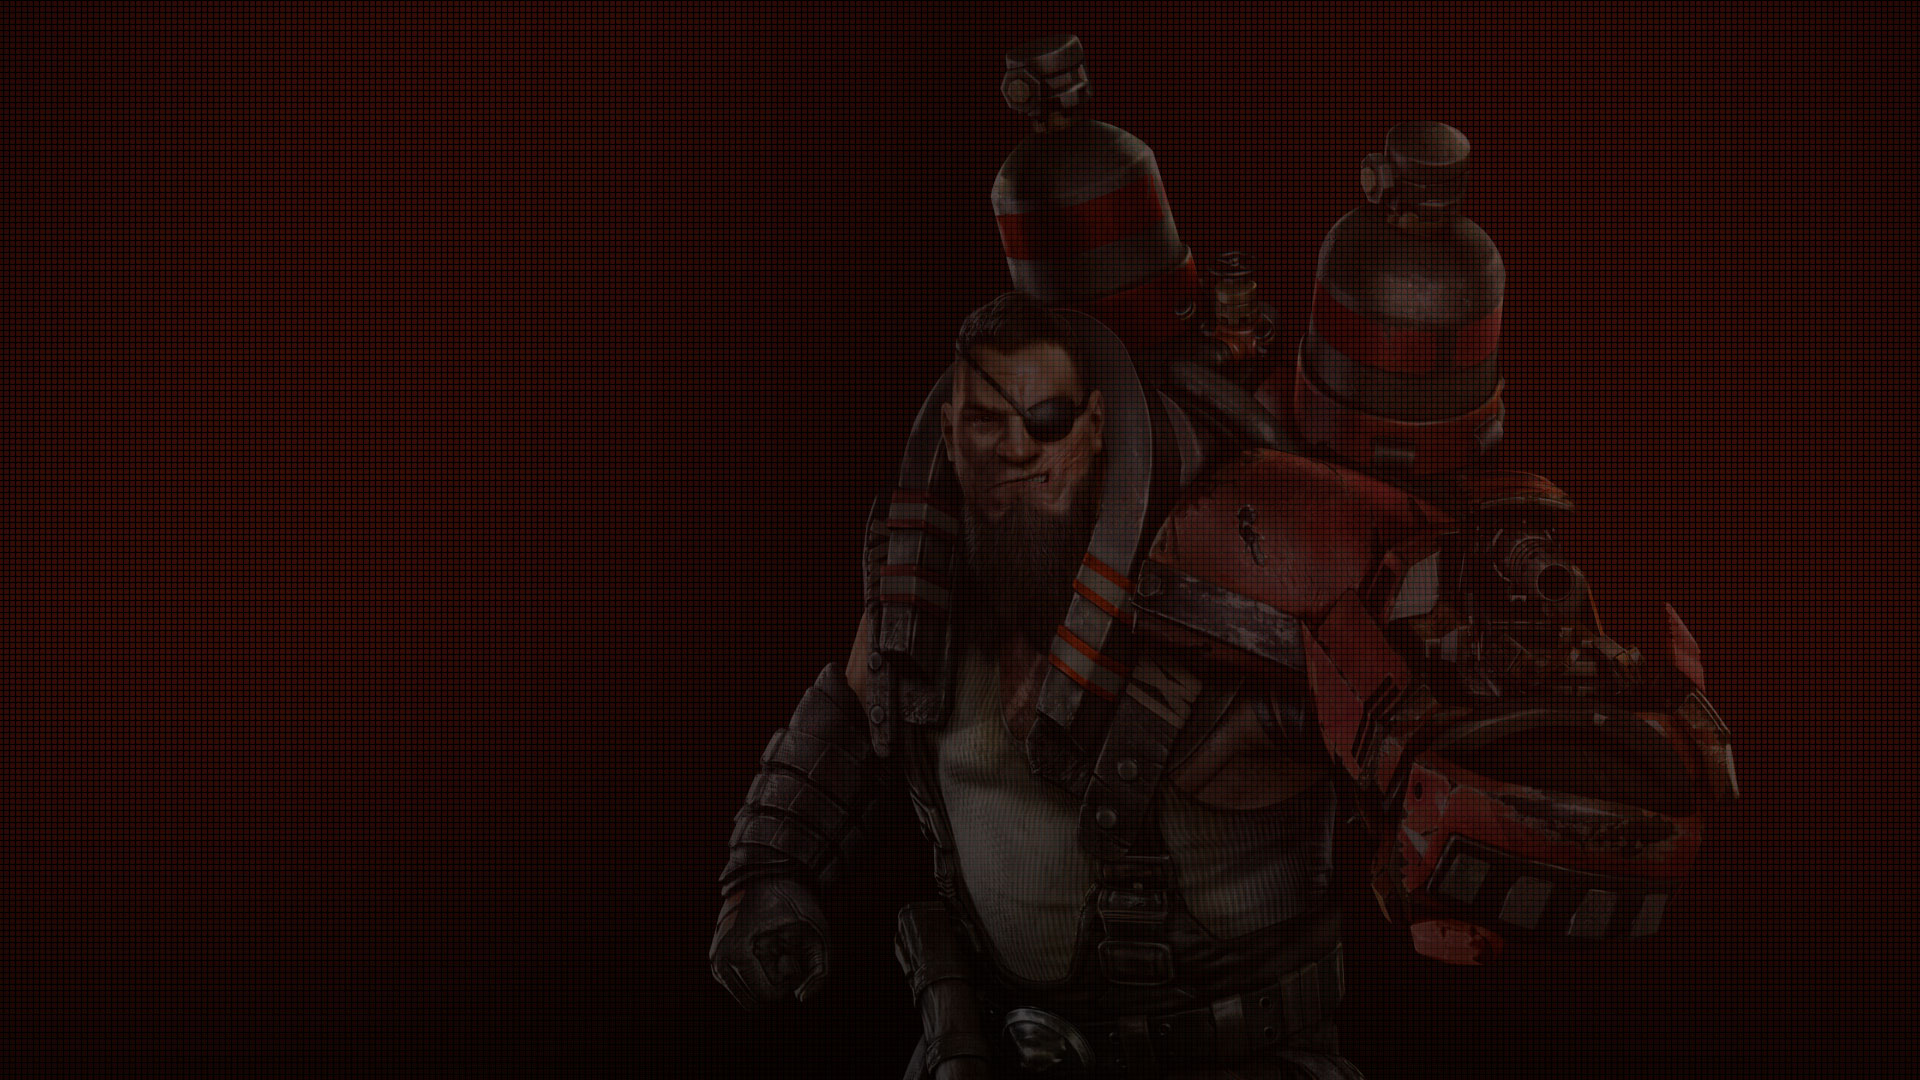
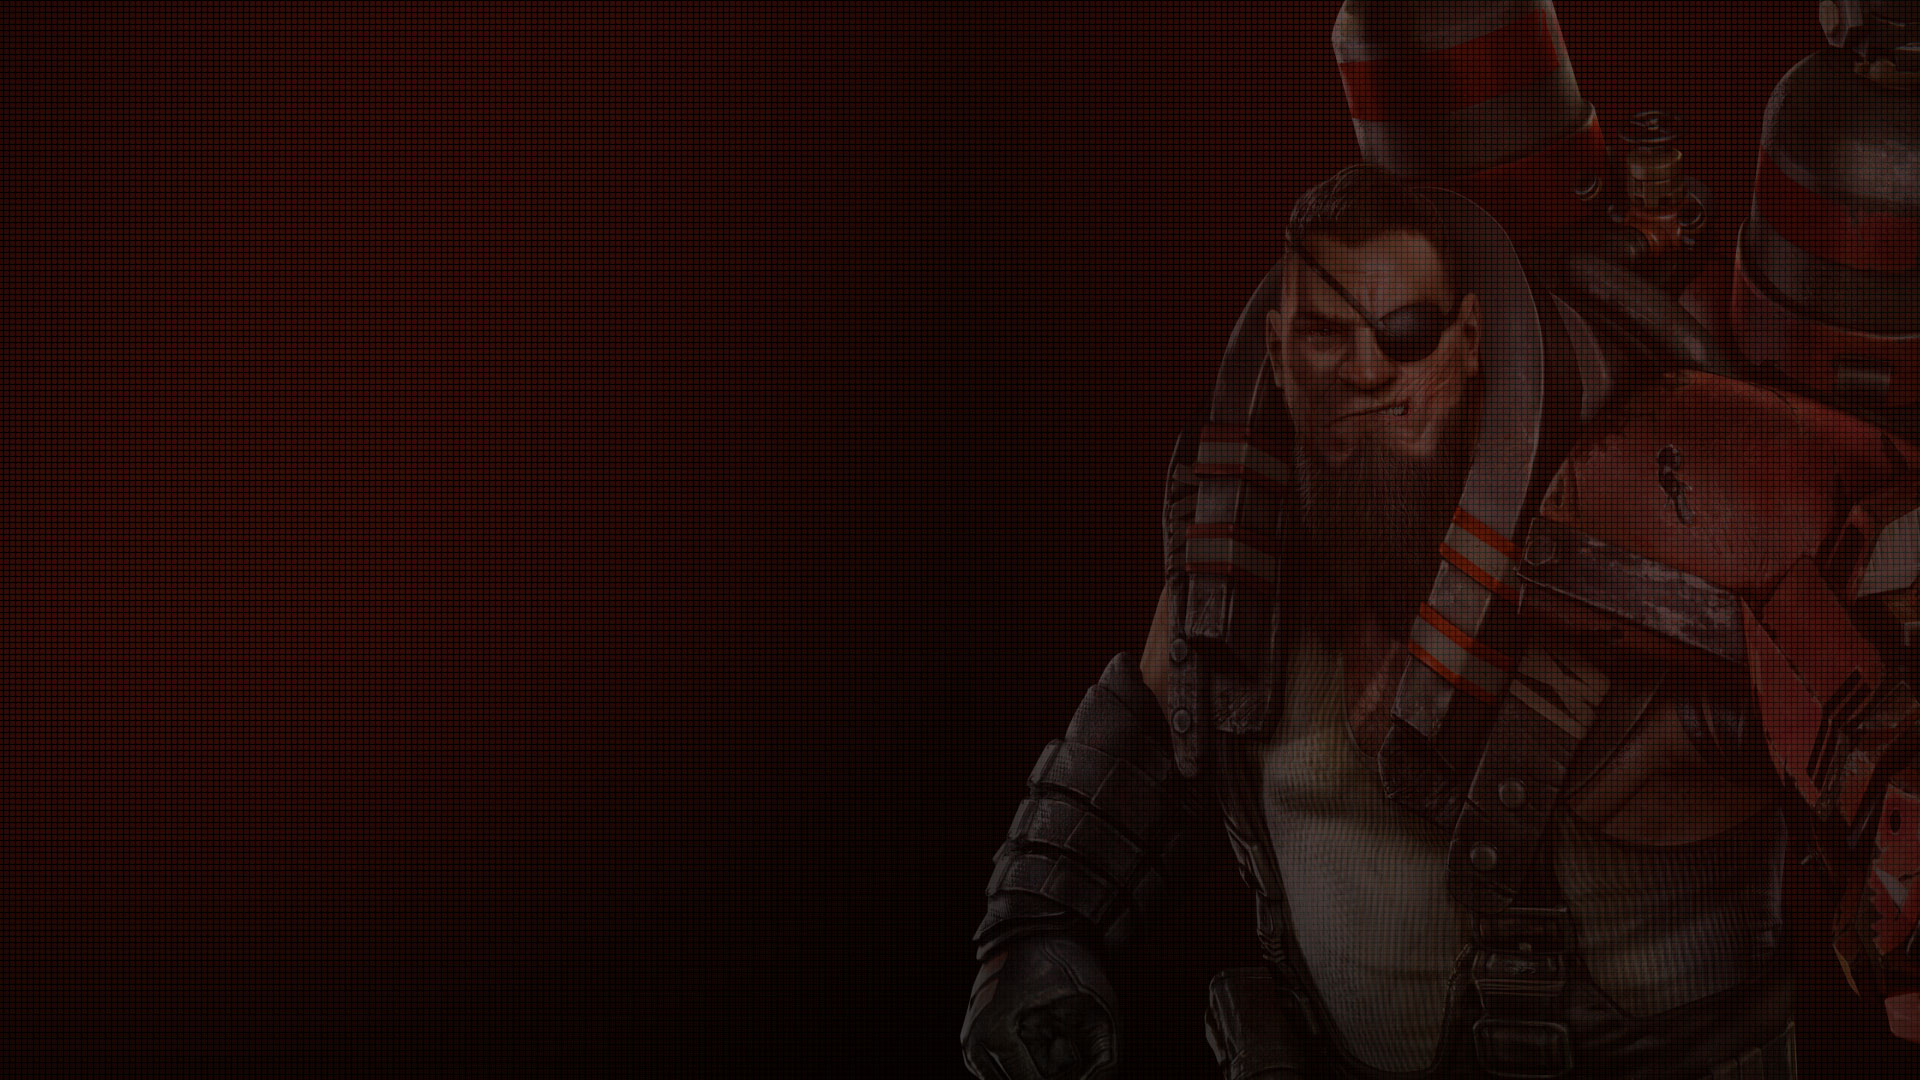
fixed challenges list, added more bg images

diff --git a/app/partials/challenge_list.html b/app/partials/challenge_list.html
@@ -1,4 +1,4 @@
 <h2>Challenges</h2>
 <div ng-repeat="challenge in challenges | orderBy:'name'">
-  {{ challenge.num }}. <a href="/challenge/{{ challenge.slug }}">{{ challenge.name }}</a>
+  {{ challenge.id }}. <a href="/challenge/{{ challenge.slug }}">{{ challenge.name }}</a>
 </div>

diff --git a/api.py b/api.py
@@ -16,16 +16,8 @@ class JsonBaseHandler(webapp2.RequestHandler):
 class ChallengesHandler(JsonBaseHandler):
 
 	def get(self):
-		# TODO: Memcache
-		data = []
-		for challenge in models.challenges():
-			data_max = challenge.get_max_datapoint()
-			challenge = challenge.to_dict()
-			challenge['progress_raw'] = data_max
-			del challenge['datapoints']
-			data.append(challenge)
-		
-		self.send_json(data)
+		challenges = [challenge.to_dict() for challenge in models.challenges()]
+		self.send_json(challenges)
 
 class ChallengeHandler(JsonBaseHandler):
 

diff --git a/models.py b/models.py
@@ -62,3 +62,6 @@ class ChallengeData(ndb.Model):
 	updated = ndb.DateTimeProperty()
 	value = ndb.FloatProperty()
 	increment = ndb.FloatProperty()
+
+def challenges():
+	return Challenge.query().fetch()
